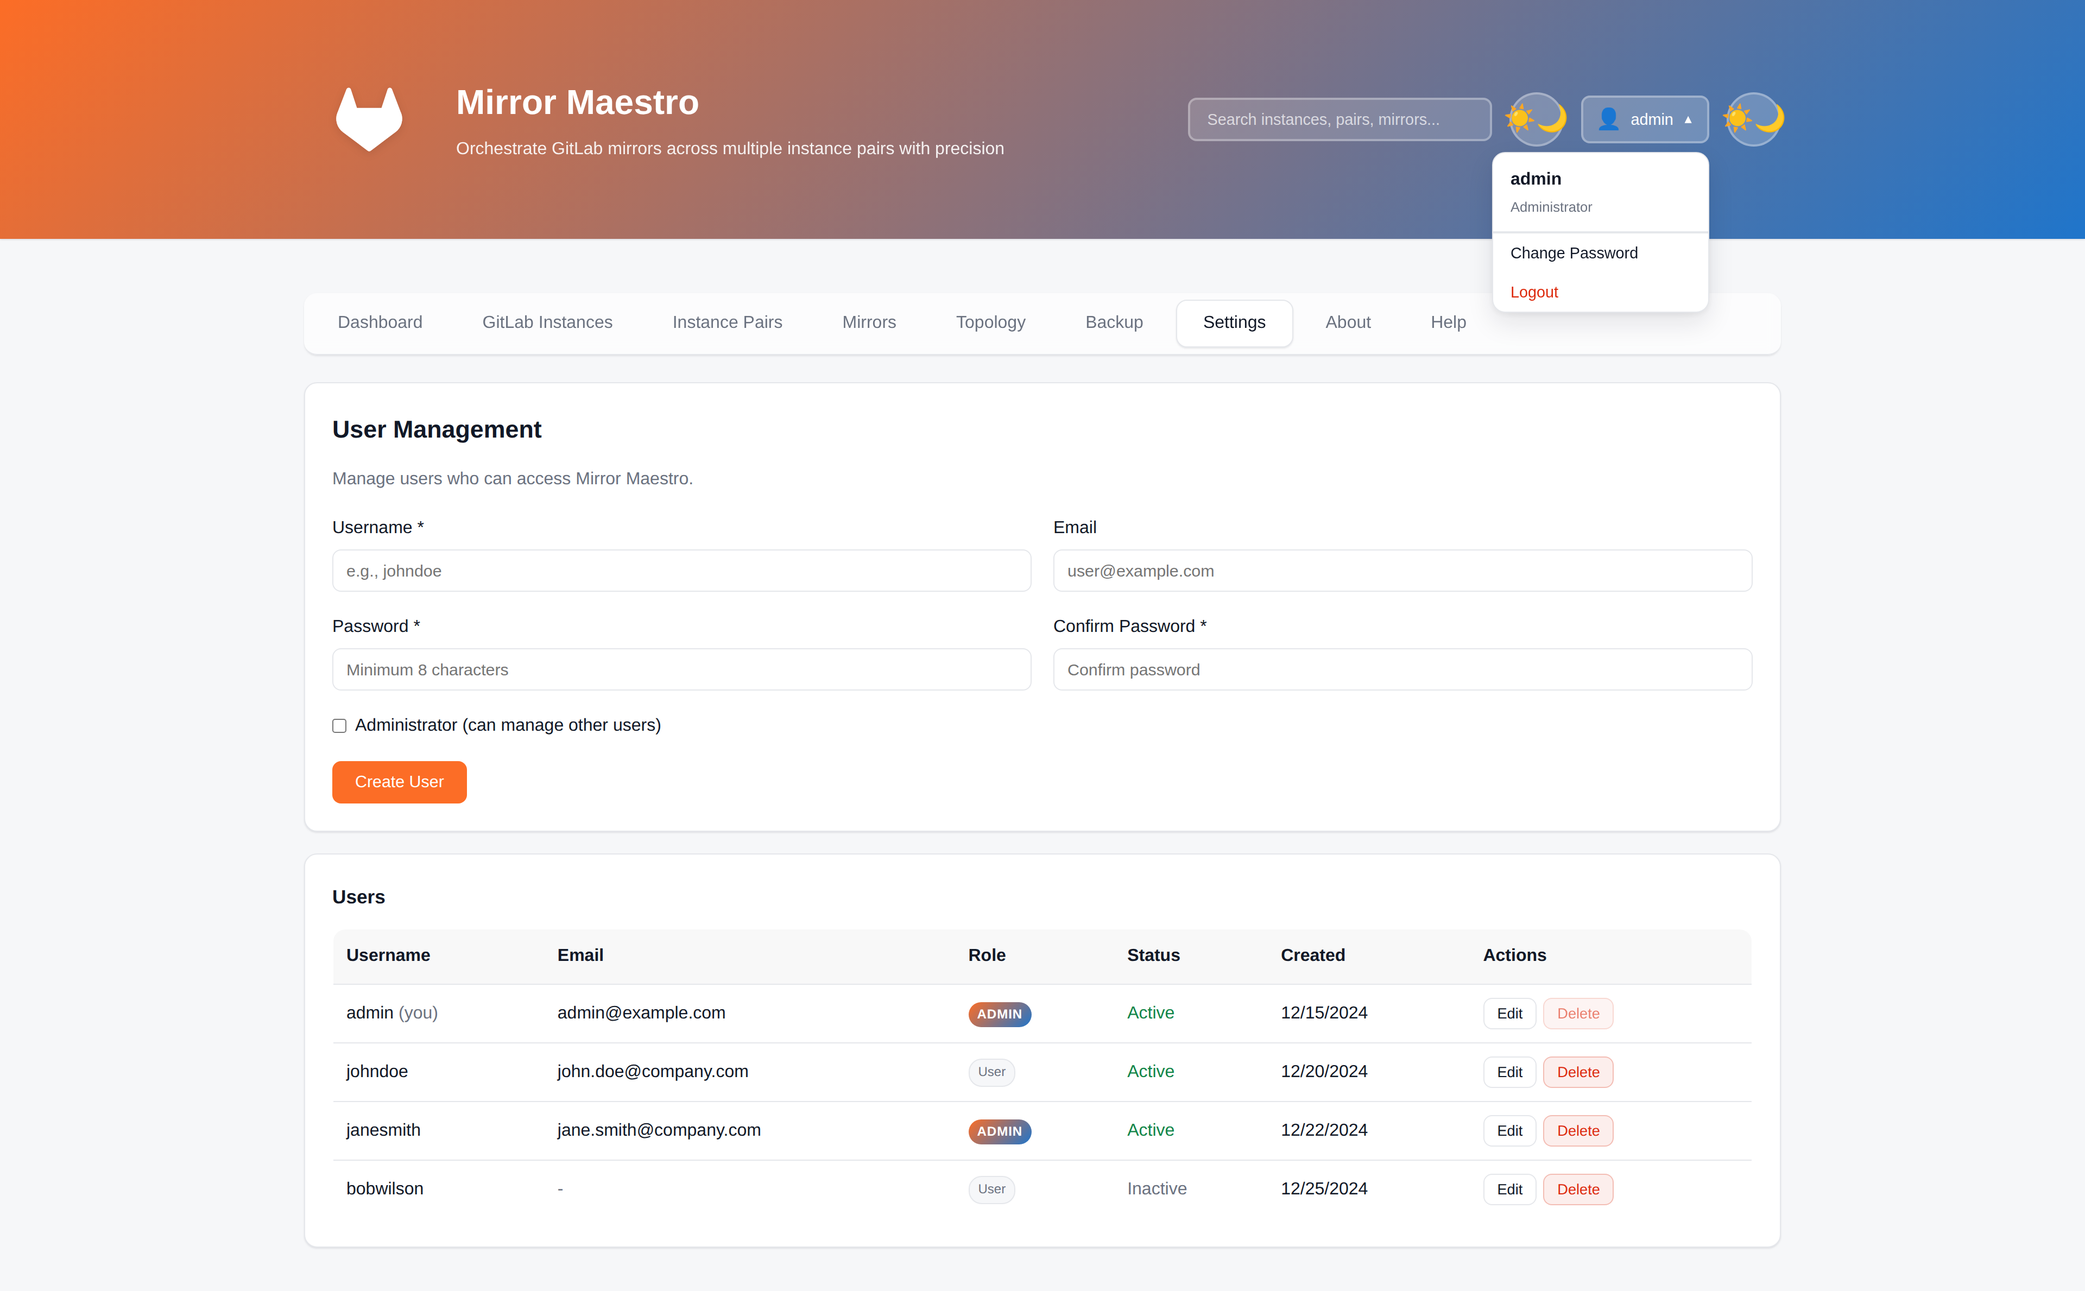
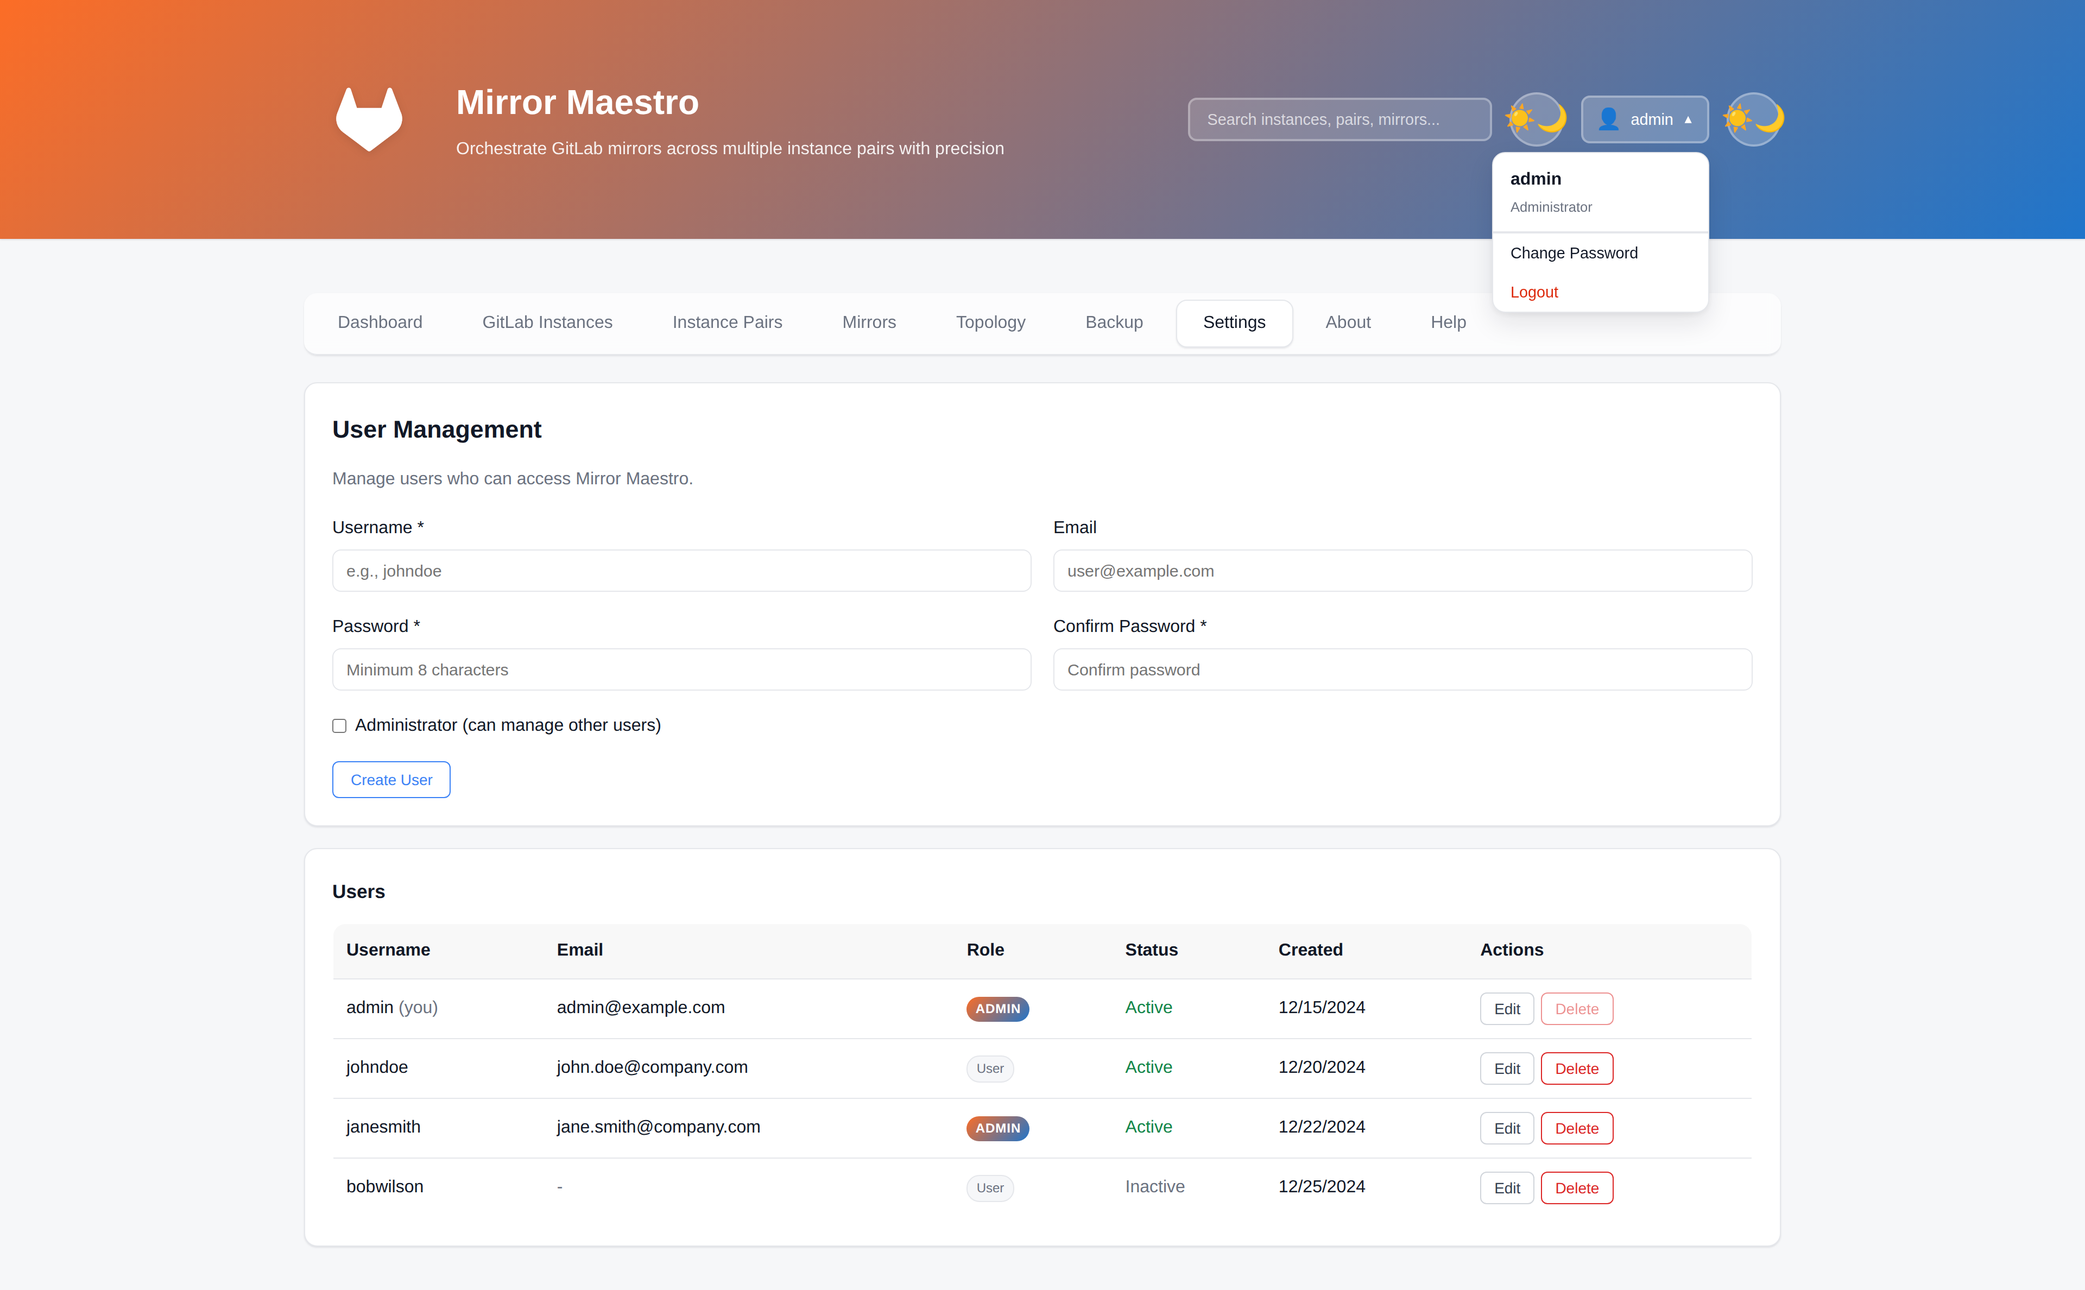
design: Apply consistent button styling across all pages
- Update all demo pages with uniform outline/ghost button style
- Consistent padding (0.375-0.5rem), font-size (0.875rem), border radius (0.375rem)
- Semantic colors maintained: blue (primary), green (action), gray (neutral), red (destructive)
- Updated pages: Dashboard, Instances, Pairs, Backup, Settings, Topology
- All buttons now have clean, professional appearance matching the Mirrors page
- Regenerate all screenshots with updated styles

diff --git a/docs/screenshots/demo-instances.html b/docs/screenshots/demo-instances.html
@@ -73,7 +73,7 @@
                         <textarea id="instance-description" name="description" placeholder="Optional description"></textarea>
                     </div>
 
-                    <button type="submit" class="btn btn-primary">Add Instance</button>
+                    <button type="submit" style="padding: 0.5rem 1rem; font-size: 0.875rem; border: 1px solid #3b82f6; background: white; color: #3b82f6; border-radius: 0.375rem; cursor: pointer; font-weight: 500;">Add Instance</button>
                 </form>
             </div>
 
@@ -102,8 +102,8 @@
                             </td>
                             <td>
                                 <div class="table-actions">
-                                    <button class="btn btn-primary btn-small">Save</button>
-                                    <button class="btn btn-secondary btn-small">Cancel</button>
+                                    <button style="padding: 0.375rem 0.75rem; font-size: 0.875rem; border: 1px solid #3b82f6; background: white; color: #3b82f6; border-radius: 0.375rem; cursor: pointer; font-weight: 500;">Save</button>
+                                    <button style="padding: 0.375rem 0.75rem; font-size: 0.875rem; border: 1px solid #d1d5db; background: white; color: #374151; border-radius: 0.375rem; cursor: pointer; font-weight: 500;">Cancel</button>
                                 </div>
                             </td>
                         </tr>
@@ -114,8 +114,8 @@
                             <td><span class="text-muted">••••••••</span></td>
                             <td>
                                 <div class="table-actions">
-                                    <button class="btn btn-secondary btn-small">Edit</button>
-                                    <button class="btn btn-danger btn-small">Delete</button>
+                                    <button style="padding: 0.375rem 0.75rem; font-size: 0.875rem; border: 1px solid #d1d5db; background: white; color: #374151; border-radius: 0.375rem; cursor: pointer; font-weight: 500;">Edit</button>
+                                    <button style="padding: 0.375rem 0.75rem; font-size: 0.875rem; border: 1px solid #dc2626; background: white; color: #dc2626; border-radius: 0.375rem; cursor: pointer; font-weight: 500;">Delete</button>
                                 </div>
                             </td>
                         </tr>
@@ -126,8 +126,8 @@
                             <td><span class="text-muted">••••••••</span></td>
                             <td>
                                 <div class="table-actions">
-                                    <button class="btn btn-secondary btn-small">Edit</button>
-                                    <button class="btn btn-danger btn-small">Delete</button>
+                                    <button style="padding: 0.375rem 0.75rem; font-size: 0.875rem; border: 1px solid #d1d5db; background: white; color: #374151; border-radius: 0.375rem; cursor: pointer; font-weight: 500;">Edit</button>
+                                    <button style="padding: 0.375rem 0.75rem; font-size: 0.875rem; border: 1px solid #dc2626; background: white; color: #dc2626; border-radius: 0.375rem; cursor: pointer; font-weight: 500;">Delete</button>
                                 </div>
                             </td>
                         </tr>
@@ -138,8 +138,8 @@
                             <td><span class="text-muted">••••••••</span></td>
                             <td>
                                 <div class="table-actions">
-                                    <button class="btn btn-secondary btn-small">Edit</button>
-                                    <button class="btn btn-danger btn-small">Delete</button>
+                                    <button style="padding: 0.375rem 0.75rem; font-size: 0.875rem; border: 1px solid #d1d5db; background: white; color: #374151; border-radius: 0.375rem; cursor: pointer; font-weight: 500;">Edit</button>
+                                    <button style="padding: 0.375rem 0.75rem; font-size: 0.875rem; border: 1px solid #dc2626; background: white; color: #dc2626; border-radius: 0.375rem; cursor: pointer; font-weight: 500;">Delete</button>
                                 </div>
                             </td>
                         </tr>

diff --git a/docs/screenshots/demo-settings.html b/docs/screenshots/demo-settings.html
@@ -101,7 +101,7 @@
                         </div>
                     </div>
 
-                    <button type="submit" class="btn btn-primary">Create User</button>
+                    <button type="submit" style="padding: 0.5rem 1rem; font-size: 0.875rem; border: 1px solid #3b82f6; background: white; color: #3b82f6; border-radius: 0.375rem; cursor: pointer; font-weight: 500;">Create User</button>
                 </form>
             </div>
 
@@ -127,8 +127,8 @@
                             <td>12/15/2024</td>
                             <td>
                                 <div class="table-actions">
-                                    <button class="btn btn-secondary btn-small">Edit</button>
-                                    <button class="btn btn-danger btn-small" disabled title="Cannot delete yourself">Delete</button>
+                                    <button style="padding: 0.375rem 0.75rem; font-size: 0.875rem; border: 1px solid #d1d5db; background: white; color: #374151; border-radius: 0.375rem; cursor: pointer; font-weight: 500;">Edit</button>
+                                    <button style="padding: 0.375rem 0.75rem; font-size: 0.875rem; border: 1px solid #dc2626; background: white; color: #dc2626; border-radius: 0.375rem; cursor: not-allowed; font-weight: 500; opacity: 0.5;" disabled title="Cannot delete yourself">Delete</button>
                                 </div>
                             </td>
                         </tr>
@@ -140,8 +140,8 @@
                             <td>12/20/2024</td>
                             <td>
                                 <div class="table-actions">
-                                    <button class="btn btn-secondary btn-small">Edit</button>
-                                    <button class="btn btn-danger btn-small">Delete</button>
+                                    <button style="padding: 0.375rem 0.75rem; font-size: 0.875rem; border: 1px solid #d1d5db; background: white; color: #374151; border-radius: 0.375rem; cursor: pointer; font-weight: 500;">Edit</button>
+                                    <button style="padding: 0.375rem 0.75rem; font-size: 0.875rem; border: 1px solid #dc2626; background: white; color: #dc2626; border-radius: 0.375rem; cursor: pointer; font-weight: 500;">Delete</button>
                                 </div>
                             </td>
                         </tr>
@@ -153,8 +153,8 @@
                             <td>12/22/2024</td>
                             <td>
                                 <div class="table-actions">
-                                    <button class="btn btn-secondary btn-small">Edit</button>
-                                    <button class="btn btn-danger btn-small">Delete</button>
+                                    <button style="padding: 0.375rem 0.75rem; font-size: 0.875rem; border: 1px solid #d1d5db; background: white; color: #374151; border-radius: 0.375rem; cursor: pointer; font-weight: 500;">Edit</button>
+                                    <button style="padding: 0.375rem 0.75rem; font-size: 0.875rem; border: 1px solid #dc2626; background: white; color: #dc2626; border-radius: 0.375rem; cursor: pointer; font-weight: 500;">Delete</button>
                                 </div>
                             </td>
                         </tr>
@@ -166,8 +166,8 @@
                             <td>12/25/2024</td>
                             <td>
                                 <div class="table-actions">
-                                    <button class="btn btn-secondary btn-small">Edit</button>
-                                    <button class="btn btn-danger btn-small">Delete</button>
+                                    <button style="padding: 0.375rem 0.75rem; font-size: 0.875rem; border: 1px solid #d1d5db; background: white; color: #374151; border-radius: 0.375rem; cursor: pointer; font-weight: 500;">Edit</button>
+                                    <button style="padding: 0.375rem 0.75rem; font-size: 0.875rem; border: 1px solid #dc2626; background: white; color: #dc2626; border-radius: 0.375rem; cursor: pointer; font-weight: 500;">Delete</button>
                                 </div>
                             </td>
                         </tr>

diff --git a/docs/screenshots/demo-pairs.html b/docs/screenshots/demo-pairs.html
@@ -113,7 +113,7 @@
                         <textarea id="pair-description" name="description" placeholder="Optional description"></textarea>
                     </div>
 
-                    <button type="submit" class="btn btn-primary">Create Pair</button>
+                    <button type="submit" style="padding: 0.5rem 1rem; font-size: 0.875rem; border: 1px solid #3b82f6; background: white; color: #3b82f6; border-radius: 0.375rem; cursor: pointer; font-weight: 500;">Create Pair</button>
                 </form>
             </div>
 
@@ -165,8 +165,8 @@
                             </td>
                             <td>
                                 <div class="table-actions">
-                                    <button class="btn btn-primary btn-small">Save</button>
-                                    <button class="btn btn-secondary btn-small">Cancel</button>
+                                    <button style="padding: 0.375rem 0.75rem; font-size: 0.875rem; border: 1px solid #3b82f6; background: white; color: #3b82f6; border-radius: 0.375rem; cursor: pointer; font-weight: 500;">Save</button>
+                                    <button style="padding: 0.375rem 0.75rem; font-size: 0.875rem; border: 1px solid #d1d5db; background: white; color: #374151; border-radius: 0.375rem; cursor: pointer; font-weight: 500;">Cancel</button>
                                 </div>
                             </td>
                         </tr>
@@ -185,9 +185,9 @@
                             </td>
                             <td>
                                 <div class="table-actions">
-                                    <button class="btn btn-primary btn-small">Sync All</button>
-                                    <button class="btn btn-secondary btn-small">Edit</button>
-                                    <button class="btn btn-danger btn-small">Delete</button>
+                                    <button style="padding: 0.375rem 0.75rem; font-size: 0.875rem; border: 1px solid #10b981; background: white; color: #10b981; border-radius: 0.375rem; cursor: pointer; font-weight: 500;">Sync All</button>
+                                    <button style="padding: 0.375rem 0.75rem; font-size: 0.875rem; border: 1px solid #d1d5db; background: white; color: #374151; border-radius: 0.375rem; cursor: pointer; font-weight: 500;">Edit</button>
+                                    <button style="padding: 0.375rem 0.75rem; font-size: 0.875rem; border: 1px solid #dc2626; background: white; color: #dc2626; border-radius: 0.375rem; cursor: pointer; font-weight: 500;">Delete</button>
                                 </div>
                             </td>
                         </tr>
@@ -206,9 +206,9 @@
                             </td>
                             <td>
                                 <div class="table-actions">
-                                    <button class="btn btn-primary btn-small">Sync All</button>
-                                    <button class="btn btn-secondary btn-small">Edit</button>
-                                    <button class="btn btn-danger btn-small">Delete</button>
+                                    <button style="padding: 0.375rem 0.75rem; font-size: 0.875rem; border: 1px solid #10b981; background: white; color: #10b981; border-radius: 0.375rem; cursor: pointer; font-weight: 500;">Sync All</button>
+                                    <button style="padding: 0.375rem 0.75rem; font-size: 0.875rem; border: 1px solid #d1d5db; background: white; color: #374151; border-radius: 0.375rem; cursor: pointer; font-weight: 500;">Edit</button>
+                                    <button style="padding: 0.375rem 0.75rem; font-size: 0.875rem; border: 1px solid #dc2626; background: white; color: #dc2626; border-radius: 0.375rem; cursor: pointer; font-weight: 500;">Delete</button>
                                 </div>
                             </td>
                         </tr>

diff --git a/docs/screenshots/demo-dashboard.html b/docs/screenshots/demo-dashboard.html
@@ -194,16 +194,16 @@
                             <h3>Quick Actions</h3>
                         </div>
                         <div class="quick-actions">
-                            <button class="btn btn-primary btn-block">Create New Mirror</button>
-                            <button class="btn btn-secondary btn-block">Add Instance</button>
-                            <button class="btn btn-secondary btn-block">Import Configuration</button>
+                            <button style="width: 100%; padding: 0.5rem 1rem; font-size: 0.875rem; border: 1px solid #3b82f6; background: white; color: #3b82f6; border-radius: 0.375rem; cursor: pointer; font-weight: 500; margin-bottom: 0.5rem;">Create New Mirror</button>
+                            <button style="width: 100%; padding: 0.5rem 1rem; font-size: 0.875rem; border: 1px solid #d1d5db; background: white; color: #374151; border-radius: 0.375rem; cursor: pointer; font-weight: 500; margin-bottom: 0.5rem;">Add Instance</button>
+                            <button style="width: 100%; padding: 0.5rem 1rem; font-size: 0.875rem; border: 1px solid #d1d5db; background: white; color: #374151; border-radius: 0.375rem; cursor: pointer; font-weight: 500;">Import Configuration</button>
                         </div>
                     </div>
 
                     <div class="card dashboard-system-health">
                         <div class="flex-between">
                             <h3>System Health</h3>
-                            <button class="btn btn-small btn-secondary" title="Refresh health status">↻</button>
+                            <button style="padding: 0.375rem 0.75rem; font-size: 0.875rem; border: 1px solid #d1d5db; background: white; color: #374151; border-radius: 0.375rem; cursor: pointer; font-weight: 500;" title="Refresh health status">↻</button>
                         </div>
                         <div id="system-health-content" class="mt-20">
                             <div class="system-health-status healthy">

diff --git a/docs/screenshots/demo-backup.html b/docs/screenshots/demo-backup.html
@@ -92,7 +92,7 @@
                     </div>
                 </div>
 
-                <button id="create-backup-btn" class="btn btn-primary">
+                <button id="create-backup-btn" style="padding: 0.5rem 1rem; font-size: 0.875rem; border: 1px solid #3b82f6; background: white; color: #3b82f6; border-radius: 0.375rem; cursor: pointer; font-weight: 500;">
                     <span id="create-backup-text">Create & Download Backup</span>
                     <span id="create-backup-spinner" class="btn-spinner" style="display:none;">
                         <div class="spinner"></div>
@@ -128,11 +128,11 @@
 
                 <div class="backup-upload">
                     <input type="file" id="restore-file-input" accept=".tar.gz" style="display:none;">
-                    <button id="select-backup-btn" class="btn btn-secondary">Select Backup File</button>
+                    <button id="select-backup-btn" style="padding: 0.5rem 1rem; font-size: 0.875rem; border: 1px solid #d1d5db; background: white; color: #374151; border-radius: 0.375rem; cursor: pointer; font-weight: 500;">Select Backup File</button>
                     <span id="restore-filename" class="text-muted">No file selected</span>
                 </div>
 
-                <button id="restore-backup-btn" class="btn btn-danger" disabled>
+                <button id="restore-backup-btn" style="padding: 0.5rem 1rem; font-size: 0.875rem; border: 1px solid #dc2626; background: white; color: #dc2626; border-radius: 0.375rem; cursor: pointer; font-weight: 500; opacity: 0.5;" disabled>
                     <span id="restore-backup-text">Restore Backup</span>
                     <span id="restore-backup-spinner" class="btn-spinner" style="display:none;">
                         <div class="spinner"></div>

diff --git a/docs/screenshots/demo-topology.html b/docs/screenshots/demo-topology.html
@@ -54,7 +54,7 @@
                         <p class="text-muted">Visualize instance-to-instance mirror flows (aggregated by direction and count).</p>
                     </div>
                     <div class="flex" style="gap:10px; flex-wrap:wrap">
-                        <button class="btn btn-secondary btn-small" type="button">Refresh</button>
+                        <button style="padding: 0.375rem 0.75rem; font-size: 0.875rem; border: 1px solid #d1d5db; background: white; color: #374151; border-radius: 0.375rem; cursor: pointer; font-weight: 500;" type="button">Refresh</button>
                     </div>
                 </div>
 
